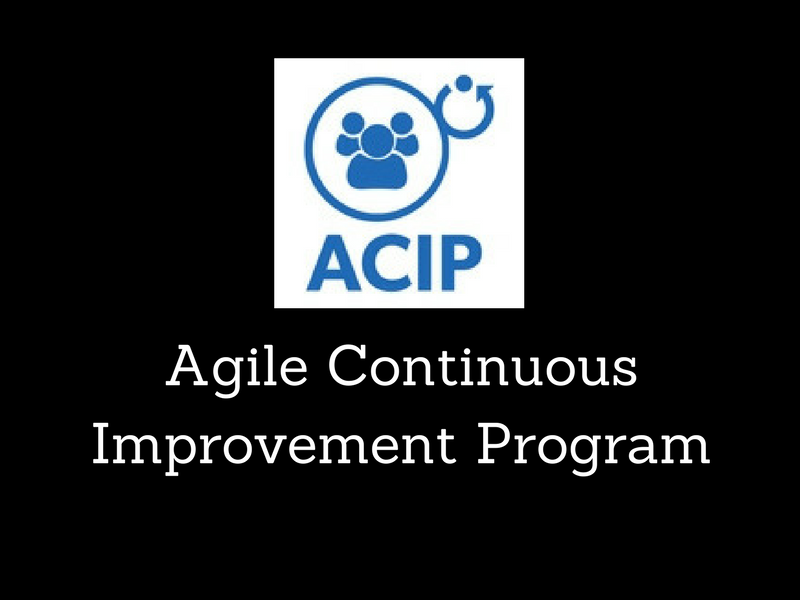
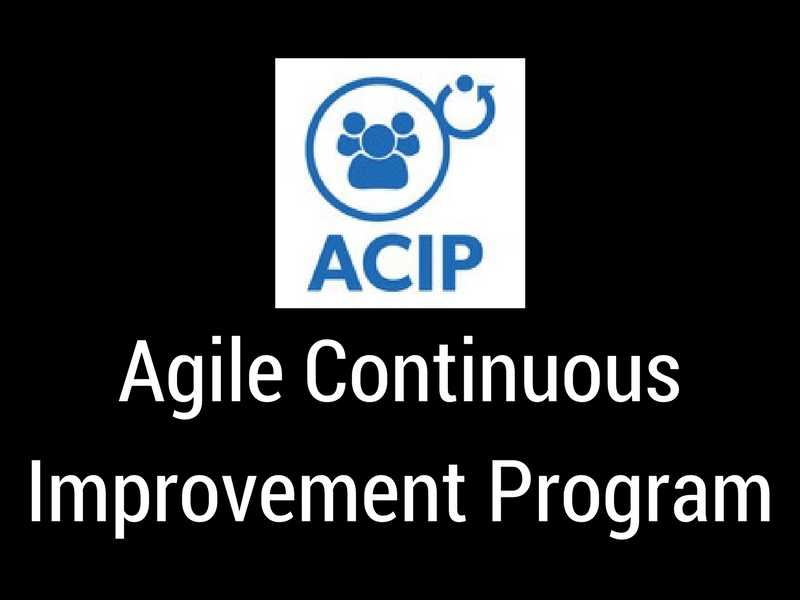
updates

diff --git a/index.html b/index.html
@@ -207,7 +207,7 @@
             <!-- links Recent Projects -->
                
             <div id="links" class="row wow fadeInUp" data-wow-delay="0.8s">
-              <div class="col-sm-6 col-md-4 col-lg-4 col-xl-4 mix offset-2">
+              <div class="col-sm-6 col-md-4 col-lg-4 col-xl-4 mix">
                 <div class="portfolio-item">
                   <div class="shot-item">
                     <a class="overlay lightbox" href="https://connections.ecm.carmax.org/communities/service/html/communityview?communityUuid=f21f72d1-33b2-4619-9a89-dc27ef4230ee" target="_blank">
@@ -242,7 +242,7 @@
                 <div class="portfolio-item">
                   <div class="shot-item">
                     <a class="overlay lightbox" href="http://www.ca.com/" target="_blank">
-                      <img src="img/ca.png" alt="" height="250px" style="align:center;" />  
+                      <img src="img/ca.png" alt=""/>  
                     </a>
                   </div>               
                 </div>
@@ -251,8 +251,8 @@
               <div class="col-sm-6 col-md-4 col-lg-4 col-xl-4 mix">
                 <div class="portfolio-item">
                   <div class="shot-item">
-                    <a class="overlay lightbox" href="http://www.vizdosenterprises.com/">
-                      <img src="img/vizdos.jpg" height="250px" alt="" />  
+                    <a class="overlay lightbox" href="http://www.vizdosenterprises.com/" target="_blank">
+                      <img src="img/vizdos.png" alt="" />  
                     </a>
                   </div>               
                 </div>

diff --git a/css/main.css b/css/main.css
@@ -81,7 +81,7 @@ a {
 }
 h1 {
   font-family: 'Raleway', sans-serif;
-  font-size: 90px !important;
+  font-size: 90px;
   font-weight: 100;
   letter-spacing: 1px;
 }
@@ -93,7 +93,7 @@ h2 {
 }
 h3 {
   font-family: 'Raleway', sans-serif;
-  font-size: 25px !important;
+  font-size: 25px;
   font-weight: 100;
   letter-spacing: 1px;
 color: white;
@@ -269,7 +269,7 @@ a:not([href]):not([tabindex]):hover {
 }
 #hero-area .contents h1 {
   color: #fff;
-  font-size: 50px;
+  font-size: 90px;
   font-weight: 100;
   margin-bottom: 25px;
 }
@@ -337,7 +337,7 @@ a:not([href]):not([tabindex]):hover {
 }
 #video-area .contents h1 {
   color: #fff;
-  font-size: 50px;
+  font-size: 90px;
   font-weight: 600;
   margin-bottom: 25px;
   line-height: 70px;
